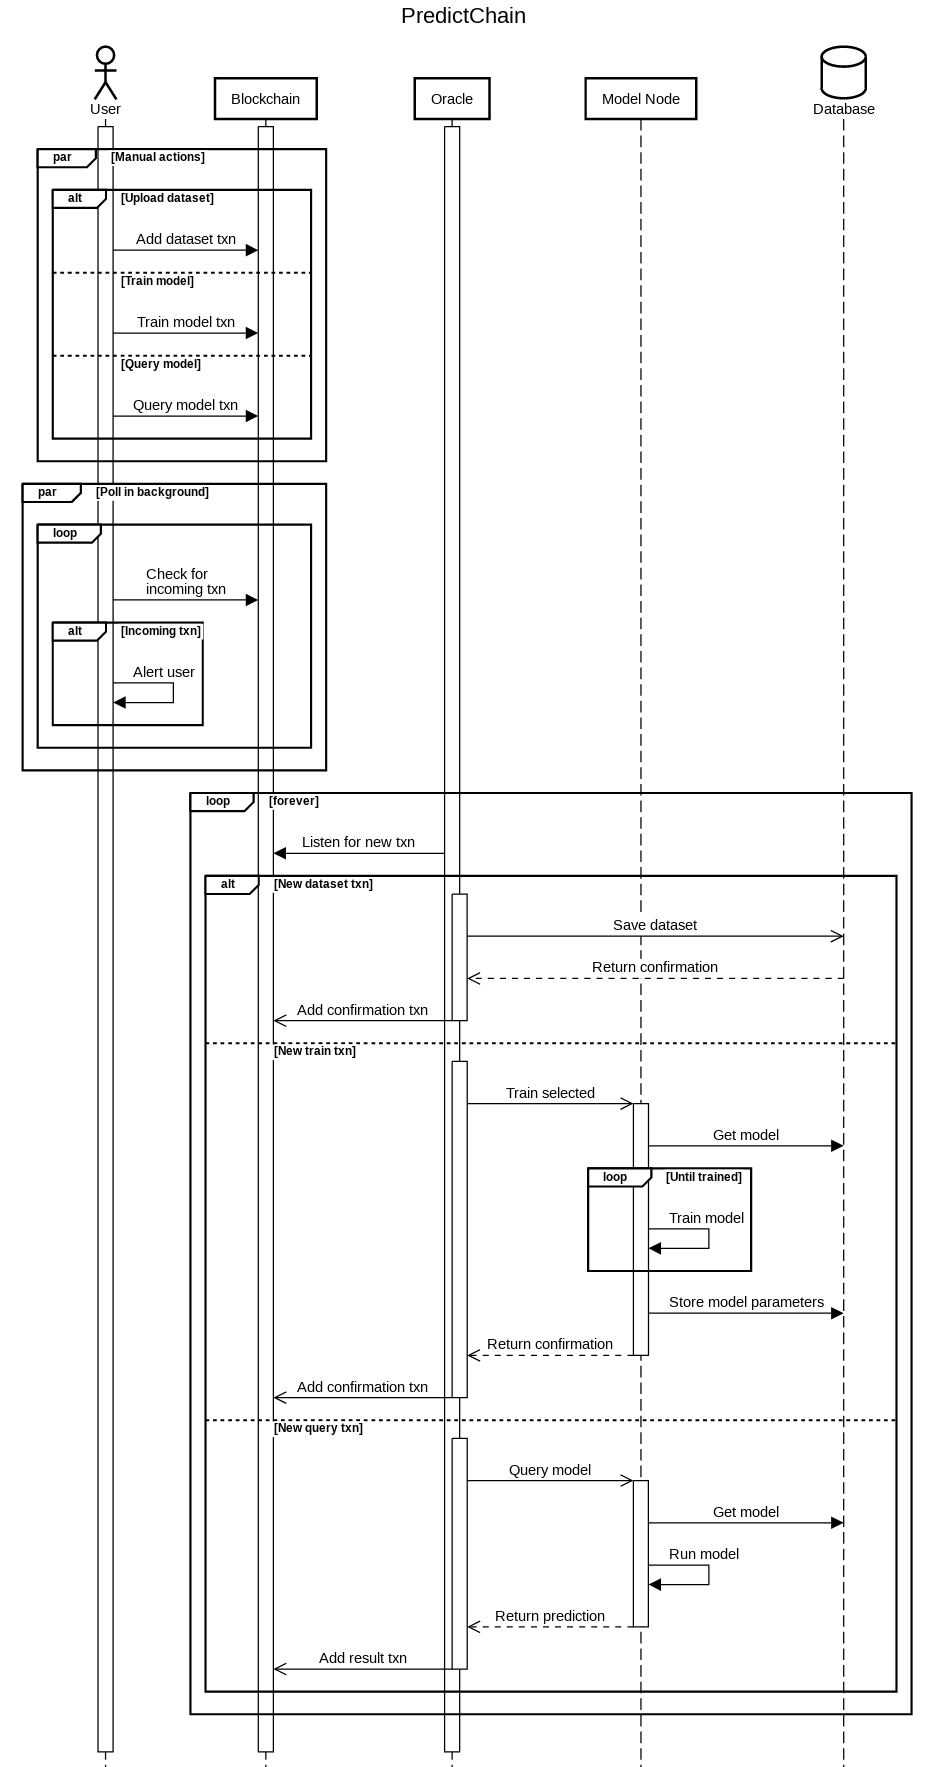
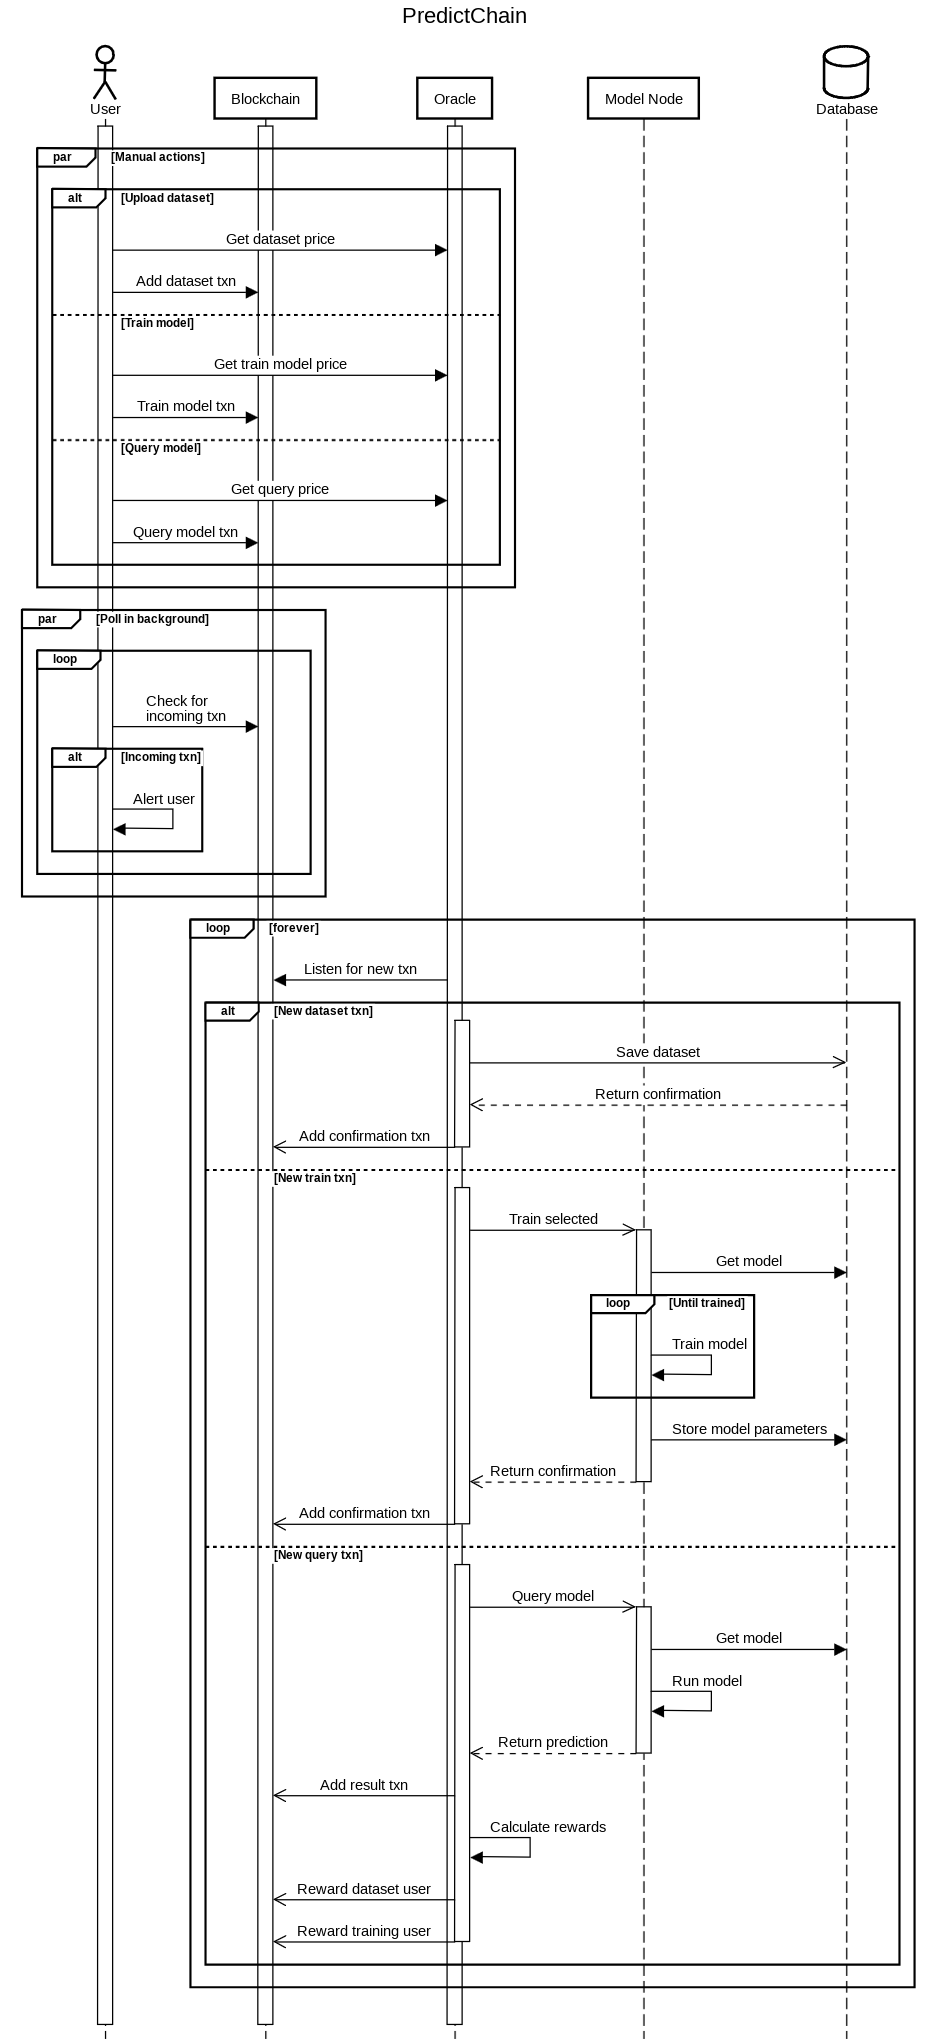
updates

diff --git a/client/clientCore.py b/client/clientCore.py
@@ -7,12 +7,39 @@ sys.path.append("../")
 import utils
 
 
+class ClientTransactionMonitor(utils.TransactionMonitor):
+    """Class to keep the user updated on incoming transactions or responses from the oracle"""
+
+    def __init__(self, address: str, all_time=False):
+        super(ClientTransactionMonitor, self).__init__(address, all_time=all_time)
+        self.txns = []
+
+    def process_incoming(self, txn):
+        """Processes the latest incoming transactions to the user"""
+        # TODO: Alert user of incoming transaction
+        print("Incoming transaction: ", txn)
+
+    def pop_txns(self):
+        tmp = self.txns
+        self.txns = []
+        return tmp
+
+
 ADDRESS = ""
-STORAGE_KEY = ""
+SECRET = ""
+
+
+class ClientState:
+    monitor: ClientTransactionMonitor = None
+
+    @classmethod
+    def init(cls):
+        cls.monitor = ClientTransactionMonitor(ADDRESS)
+        load_creds()
 
 
 def load_creds():
-    global ADDRESS, STORAGE_KEY
+    global ADDRESS, SECRET
     with open("../.creds/test_client_creds", "r") as file:
         ADDRESS = file.readline().strip("\n")
         SECRET = file.readline().strip("\n")
@@ -40,30 +67,22 @@ def get_model_query_price(trained_model: str):
 def add_dataset(link: str, dataset_name: str, data_size: int):
     """Creates a transaction to ask for a new dataset to be added and trained on a base model"""
     op = utils.OpCodes.UP_DATASET # op is included in locals() and is passed inside the note
-    return utils.transact(ADDRESS, STORAGE_KEY, utils.ORACLE_ALGO_ADDRESS, get_dataset_upload_price(data_size),
+    return utils.transact(ADDRESS, SECRET, utils.ORACLE_ALGO_ADDRESS, get_dataset_upload_price(data_size),
                           note=json.dumps(locals().copy()))
 
 
 def train_model(raw_model: str, new_model: str, dataset_name: str, **kwargs):
     """Creates a transaction to ask for a new dataset to be added and trained on a base model"""
     op = utils.OpCodes.TRAIN_MODEL  # op is included in locals() and is passed inside the note
-    return utils.transact(ADDRESS, STORAGE_KEY, utils.ORACLE_ALGO_ADDRESS, get_model_train_price(raw_model, dataset_name),
+    return utils.transact(ADDRESS, SECRET, utils.ORACLE_ALGO_ADDRESS, get_model_train_price(raw_model, dataset_name),
                           note=json.dumps(locals().copy()))
 
 
 def query_model(trained_model: str, model_input):
     """Creates a transaction to ask for a query from the specified model"""
     op = utils.OpCodes.QUERY_MODEL  # op is included in locals() and is passed inside the note
-    return utils.transact(ADDRESS, STORAGE_KEY, utils.ORACLE_ALGO_ADDRESS, get_model_query_price(trained_model),
+    return utils.transact(ADDRESS, SECRET, utils.ORACLE_ALGO_ADDRESS, get_model_query_price(trained_model),
                           note=json.dumps(locals().copy()))
-
-
-class ClientTransactionMonitor(utils.TransactionMonitor):
-    """Class to keep the user updated on incoming transactions or responses from the oracle"""
-    def process_incoming(self, txn):
-        """Processes the latest incoming transactions to the user"""
-        # TODO: Alert user of incoming transaction
-        print("Incoming transaction: ", txn)
 
 
 def command_line():
@@ -79,10 +98,10 @@ def command_line():
             case "h" | "?":
                 print(help_menu)
             case "txn":
-                print(utils.transact(ADDRESS, STORAGE_KEY, utils.ORACLE_ALGO_ADDRESS, 1,
+                print(utils.transact(ADDRESS, SECRET, utils.ORACLE_ALGO_ADDRESS, 1,
                                      note=f"{utils.OpCodes.UP_DATASET}<ARG>:testarg1<ARG>:testarg2"))
 
-    monitor.halt()
+    ClientState.monitor.halt()
     print("Client stop")
 
 
@@ -90,15 +109,26 @@ app = Flask(__name__)
 # TODO: Client endpoints for communicating with front end
 
 
-if __name__ == "__main__":
+@app.route('/new_account', methods=["POST"])
+def create_new_account():
+    addr, priv = utils.create_account()
+    return {"address": addr, "private_key": priv}
 
-    load_creds()
+
+@app.route('/update_state', methods=["GET"])
+def update_state():
+    txns = ClientState.monitor.pop_txns()
+    return {"transactions": txns}
+
+
+if __name__ == "__main__":
 
     if os.path.isdir("client"):
         os.chdir("client")
 
-    monitor = ClientTransactionMonitor(ADDRESS)
-    monitor.monitor()
+    ClientState.init()
+
+    ClientState.monitor.monitor()
 
     app.run(host="localhost", port=utils.CLIENT_SERVER_PORT)
 

diff --git a/utils.py b/utils.py
@@ -60,9 +60,11 @@ def get_txn_confirmation(txn_id: str):
 def create_account():
     """Creates an algorand wallet"""
     private_key, address = account.generate_account()
+    print("Creating a new user account...")
     print("Address: {}".format(address))
     print("Secret key:", private_key)
     print("Mnemonic: {}".format(mnemonic.from_private_key(private_key)))
+    return address, private_key
 
 
 def search_transactions(limit=10, **kwargs):

diff --git a/readme.md b/readme.md
@@ -7,13 +7,18 @@ made available, ranging from cheap, fast, and simple to more expensive, slower, 
 This will allow for a large variety of predictive abilities for both simple and complex patterns.
 All the past predictions form these models will be stored on the blockchain for public viewing.
 
+## User Actions
+
+Users can interact with this system through a variety of ways.  Users can choose to upload datasets
+of their own, train one of the base models on any previously uploaded dataset, or query any of the
+trained models for a specific result.
+
 ## Model Classes
 
 There will be several types of models available for use.  These may include:
 
 - Decision Trees
-- Bayesian Networks
-- Perceptrons
+- Multi-layered Perceptrons
 - Linear Neural Networks
 - Recurrent Neural Networks
 
@@ -31,22 +36,41 @@ information from the outside world and inject it back into the blockchain.  For 
 listen for the outcomes of user-predicted events and return those results to the users and update
 those who submitted the dataset.
 
+Communication between the blockchain and the oracle is facilitated by transactions.  When a message
+needs to be sent between the two parties, the sending party creates a transaction with a note attached.
+This note contains a json-encoded form of the arguments for the operation being requested.  These 
+arguments are then received and interpreted by the target of the transaction.
+
 ## Payments and Incentives
 
-Any user will be able to query previously trained models for predictions of real-world events.
+Payments and incentives help to turn this project into a functioning system.  They are each calculated
+using a fixed equation that is open to all users to view.  Each reward and incentive is also subject to
+a multiplier.  This can be raised or lowered by the oracle at any point.  To ensure there is a
+constant log kept in the blockchain, the id of this modifying transaction will be saved and returned
+to any user upon request.
+
+### Payments
+- Any user will be able to query previously trained models for predictions of real-world events.
 Each time this is done, these users will make a small payment to the system.
 
-Users who upload datasets will be able to choose which class of model that their dataset will be
-trained on.  The more complex models will be more expensive than their simpler counterparts.
-In order to compensate for this, these users will be compensated whenever their model makes a correct
-prediction.
+- Users who upload their own datasets will also have to pay a small fee.  This fee is based off of
+the size of the dataset that they plan to upload.
 
-## Betting
+ - Users who choose to request that a base model be trained on a particular dataset will also be
+charged with a small fee.  This fee is based off of a variety of factors including the complexity
+of the model and the size of the dataset.
 
-In addition to the other uses of this project, users may also be able to bet on the outcomes of events.
-Betting users would stake some amount on one of the possible outcomes of an event or the predictions
-of the model.  Winning users will be rewarded with their original stake in addition to part of the
-stake of any incorrect users.
+### Incentives
+
+To compensate for the payments that users make to the system, they will also be rewarded in the right
+circumstances.
+
+- Dataset uploading users will be rewarded both when a model is trained on their dataset and when
+that trained model makes a correct prediction.
+
+- Model training users will be rewarded whenever their model makes a correct prediction.
+
+- Each of the predictions mentioned above are triggered when a user queries the model for some event.
 
 ## User Interface Wireframes
 
